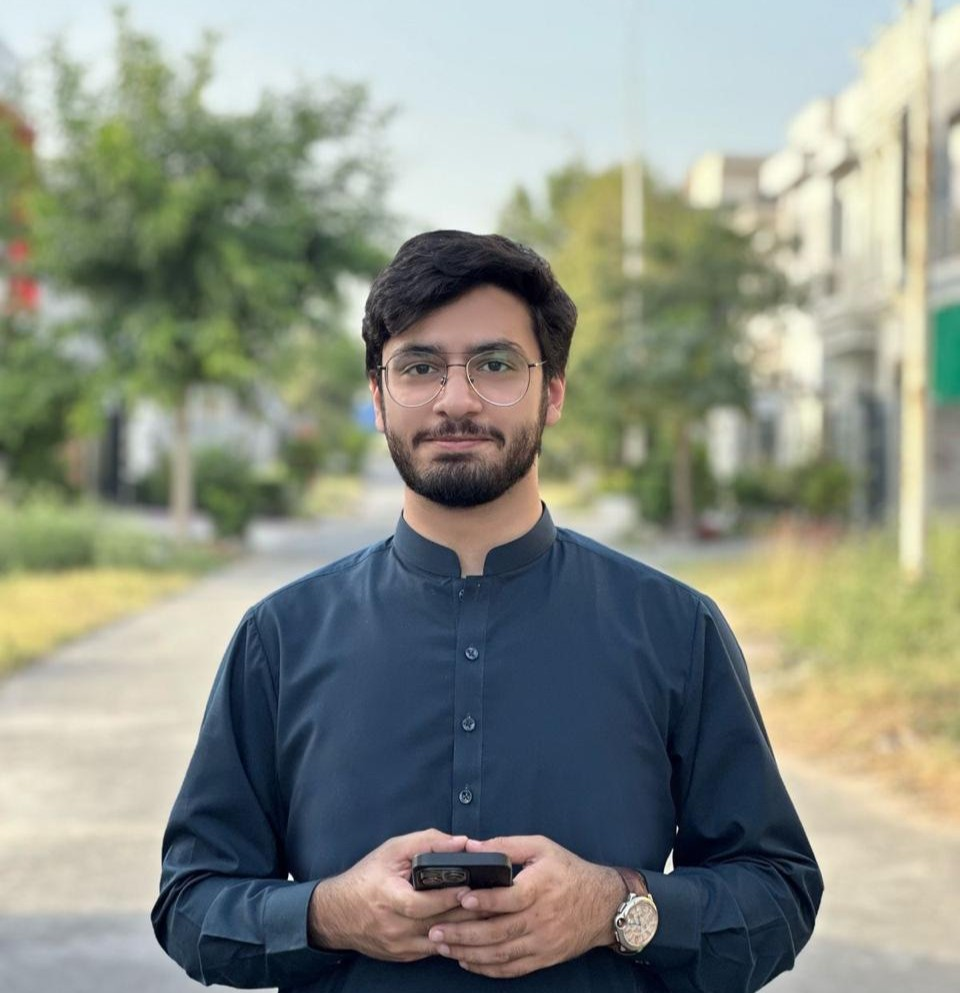
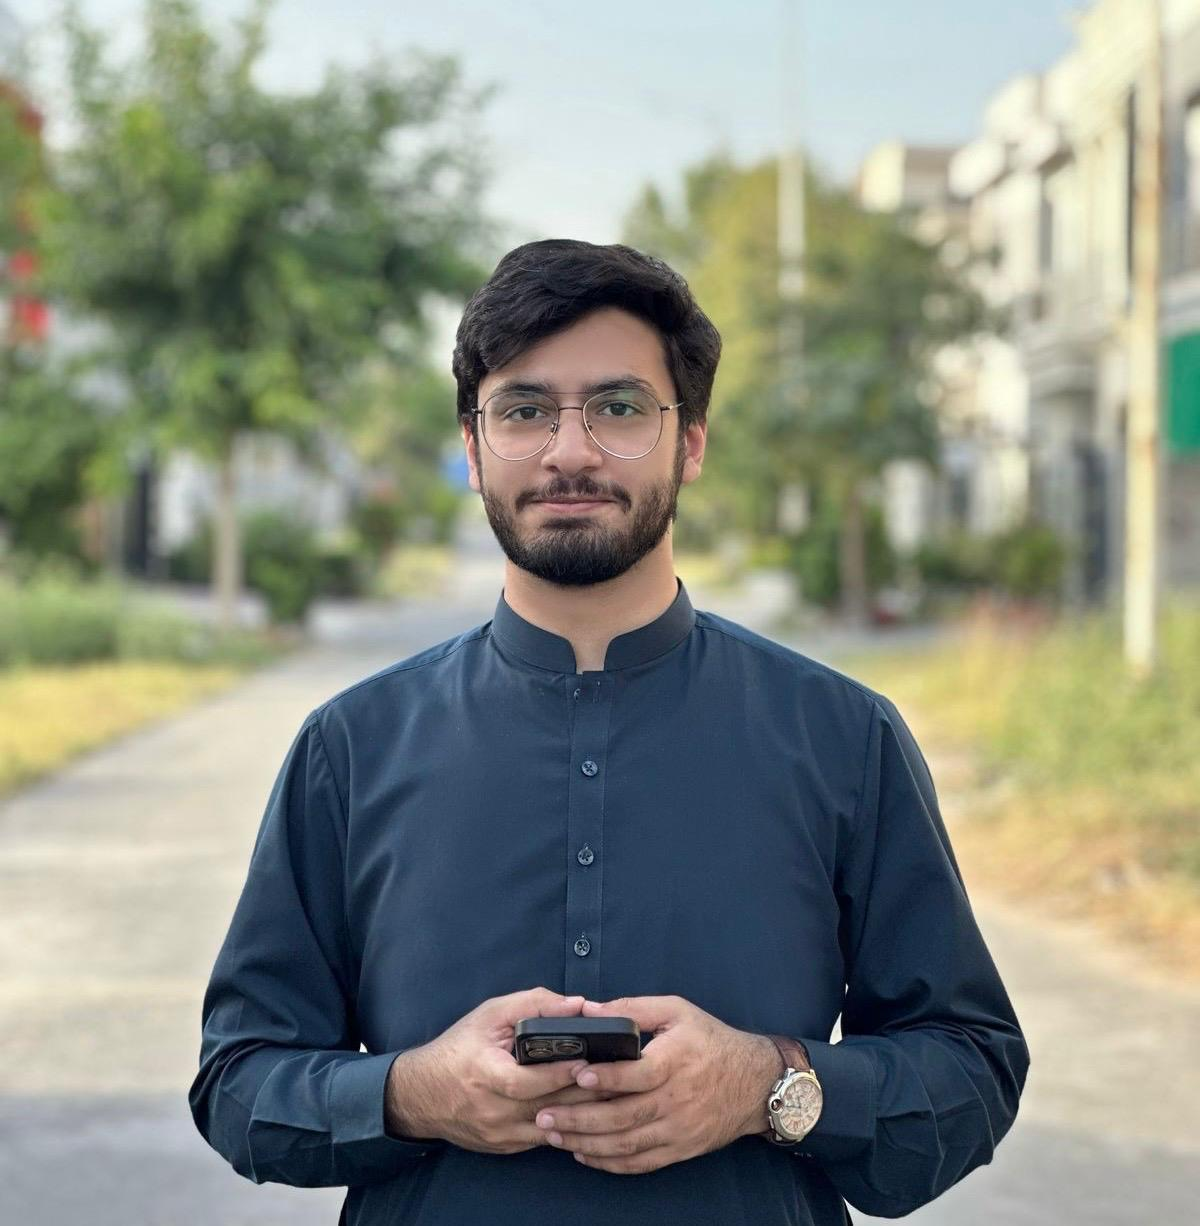
ui enhancements

diff --git a/src/pages/About/AboutMain.js b/src/pages/About/AboutMain.js
@@ -33,7 +33,7 @@ const AboutMain = () => {
                   <img
                     alt="Muhaman Ijaz"
                     src={IMAGES.muhaman}
-                    style={{ height: 250, objectFit: "cover" }}
+                    style={{ height: 300, objectFit: "contain" }}
                   />
                 }
               >
@@ -47,8 +47,8 @@ const AboutMain = () => {
                 cover={
                   <img
                     alt="Tayyab Ur Rehman"
-                    src="/images/members/tayyab.jpg"
-                    style={{ height: 250, objectFit: "cover" }}
+                    src={IMAGES.tayyab}
+                    style={{ height: 300, objectFit: "contain" }}
                   />
                 }
               >
@@ -63,7 +63,7 @@ const AboutMain = () => {
                   <img
                     alt="Abdullah Mujahid"
                     src="/images/members/abdullah.jpg"
-                    style={{ height: 250, objectFit: "cover" }}
+                    style={{ hheight: 300, objectFit: "contain" }}
                   />
                 }
               >

diff --git a/src/data/ImageData.js b/src/data/ImageData.js
@@ -21,11 +21,13 @@ import TribesImage from '../assets/images/tribes.svg';
 import TribesWBGImage from '../assets/images/tribes_wbg.svg';
 import course_placeholder from '../assets/images/course_placeholder.svg';
 import muhaman from '../assets/images/muhaman.jpeg';
+import tayyab from '../assets/images/tayyab.jpeg';
 
 // Exporting images in an object
 export const IMAGES = {
     authentication: AuthenticationImage,
     muhaman: muhaman,
+    tayyab: tayyab,
     course_placeholder: course_placeholder,
     blindMode: BlindModeImage,
     courseRecommendation: CourseRecommendationImage,
